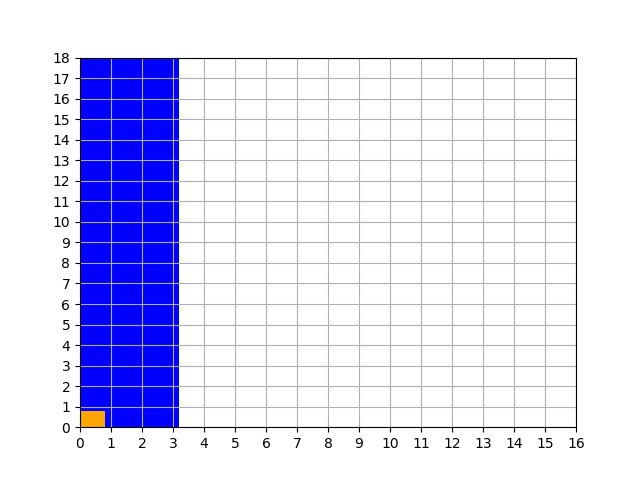
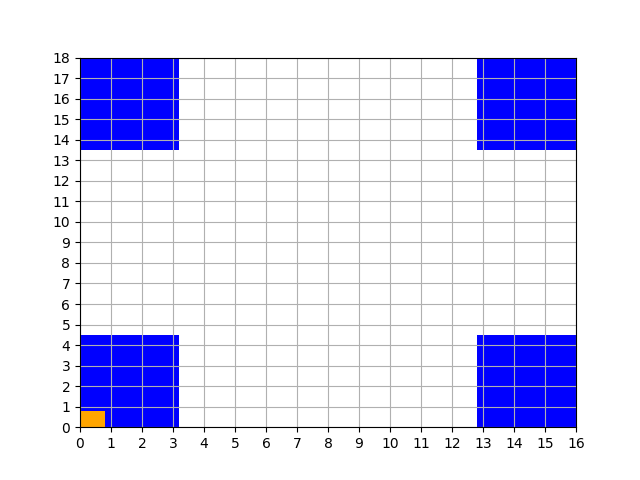
Visualization: How to acces house type from all_hosues

Changed region(s): [[0.125, 0.3125, 0.2812, 0.7188], [0.7188, 0.6875, 0.9062, 0.9062], [0.7188, 0.125, 0.9062, 0.3125]]

diff --git a/code/visualization/visualize.py b/code/visualization/visualize.py
@@ -35,10 +35,8 @@ def visualize(grid, wijk):
 
     # load house, todo: load based on grid
     print(grid.all_houses)
-    """
-        for house in grid.all_houses:
-            print(house)
-    """
+    for house in grid.all_houses.values():
+        print(house.type)
     # Hardcode house for test
     house = plt.Rectangle((0, 0), 0.8, 0.8, fc="orange")
     plt.gca().add_patch(house)

diff --git a/main.py b/main.py
@@ -8,7 +8,7 @@ if __name__ == "__main__":
     print(test_grid.cells[0,3].y_coordinate)
     """
     # visualize case
-    vis.visualize(test_grid, "wijk_1")
+    vis.visualize(test_grid, "wijk_2")
 
     """
     test_grid = grid.Grid(20)
